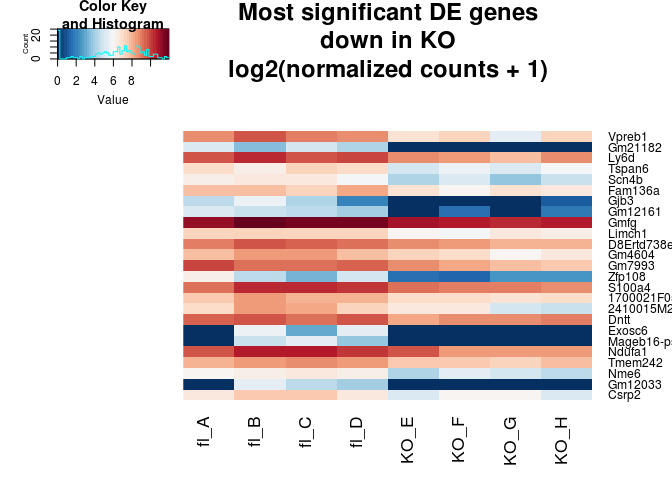
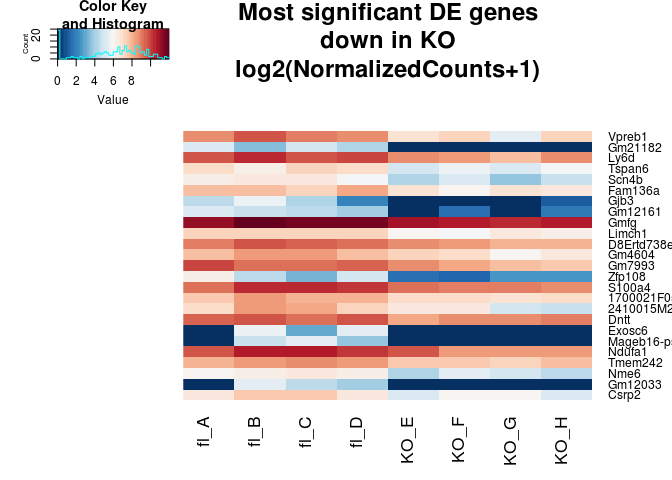
FCs

Changed region(s): [[0.3438, 0.125, 0.8125, 0.1875]]

diff --git a/BoneNotebook.md b/BoneNotebook.md
@@ -917,20 +917,32 @@ res <- resCandice[!is.na(resCandice$padj),]
 res <- res[res$log2FoldChange<0,]
 
 
-std.heatmap(log(boneMatNorm[rownames(res[order(res$pvalue,decreasing = F),])[1:25],]+1,2),main="Most significant DE genes\ndown in KO\nlog2(normalized counts + 1)")
+std.heatmap(log(boneMatNorm[rownames(res[order(res$pvalue,decreasing = F),])[1:25],]+1,2),main="Most significant DE genes\ndown in KO\nlog2(NormalizedCounts+1)")
 ```
 
 ![](BoneNotebook_files/figure-markdown_github/differentialExpression-1.png)
+
+``` r
+std.heatmap(log(boneMatNorm[rownames(res[order(res$pvalue,decreasing = F),])[1:25],]+1,2)-rowMeans(log(boneMatNorm[rownames(res[order(res$pvalue,decreasing = F),])[1:25],]+1,2)),main="Most significant DE genes\ndown in KO\nlog2(FC)")
+```
+
+![](BoneNotebook_files/figure-markdown_github/differentialExpression-2.png)
 
 ``` r
 res <-  results(DESeqOutput)
 res <- res[!is.na(res$padj),]
 boneUpDown <- list(rownames(res[res$padj<.1&res$log2FoldChange>0,]),rownames(res[res$padj<.1&res$log2FoldChange<0,]))
 res <- res[res$log2FoldChange>0,]
+std.heatmap(log(boneMatNorm[rownames(res[order(res$pvalue,decreasing = F),])[1:25],]+1,2)-rowMeans(log(boneMatNorm[rownames(res[order(res$pvalue,decreasing = F),])[1:25],]+1,2)),main="Most significant DE genes\nup in KO\nlog2(FC)")
+```
+
+![](BoneNotebook_files/figure-markdown_github/differentialExpression-3.png)
+
+``` r
 std.heatmap(log(boneMatNorm[rownames(res[order(res$pvalue,decreasing = F),])[1:25],]+1,2),main="Most significant DE genes\nup in KO\nlog2(normalized counts + 1)")
 ```
 
-![](BoneNotebook_files/figure-markdown_github/differentialExpression-2.png)
+![](BoneNotebook_files/figure-markdown_github/differentialExpression-4.png)
 
 ``` r
 res <-  results(DESeqOutput)
@@ -940,58 +952,58 @@ res <- res[!is.na(res$padj),]
 hist(res$log2FoldChange,main = "Log2 Fold Changes Detected")
 ```
 
-![](BoneNotebook_files/figure-markdown_github/differentialExpression-3.png)
+![](BoneNotebook_files/figure-markdown_github/differentialExpression-5.png)
 
 ``` r
 plot(res$log2FoldChange,-log(res$padj),ylab="-logPadj",xlab="logFC",main="Volcano Plot")
 ```
 
-![](BoneNotebook_files/figure-markdown_github/differentialExpression-4.png)
+![](BoneNotebook_files/figure-markdown_github/differentialExpression-6.png)
 
 ``` r
 #ESR1 not differentially expressed
 barplot((boneMatNorm["Esr1",]),main="Esr1")
 ```
 
-![](BoneNotebook_files/figure-markdown_github/differentialExpression-5.png)
+![](BoneNotebook_files/figure-markdown_github/differentialExpression-7.png)
 
 ``` r
 barplot((boneMatNorm["Gper1",]),main="Gper1")
 ```
 
-![](BoneNotebook_files/figure-markdown_github/differentialExpression-6.png)
+![](BoneNotebook_files/figure-markdown_github/differentialExpression-8.png)
 
 ``` r
 #Just a sanity Check
 barplot(boneMatNorm["Ncoa1",],las=2,main="Ncoa1")
 ```
 
-![](BoneNotebook_files/figure-markdown_github/differentialExpression-7.png)
+![](BoneNotebook_files/figure-markdown_github/differentialExpression-9.png)
 
 ``` r
 barplot(boneMatNorm["Ncoa2",],las=2,main="Ncoa2")
 ```
 
-![](BoneNotebook_files/figure-markdown_github/differentialExpression-8.png)
+![](BoneNotebook_files/figure-markdown_github/differentialExpression-10.png)
 
 ``` r
 barplot(boneMatNorm["Ncoa3",],las=2,main="Ncoa3")
 ```
 
-![](BoneNotebook_files/figure-markdown_github/differentialExpression-9.png)
+![](BoneNotebook_files/figure-markdown_github/differentialExpression-11.png)
 
 ``` r
 barplot((boneMatNorm["Kiss1",]),main="Kiss1")
 ```
 
-![](BoneNotebook_files/figure-markdown_github/differentialExpression-10.png)
+![](BoneNotebook_files/figure-markdown_github/differentialExpression-12.png)
 
 ``` r
 #also a sanity check
 std.heatmap(cor(ambrosiMatNorm,method = "spearman"))
 ```
 
-![](BoneNotebook_files/figure-markdown_github/differentialExpression-11.png)
+![](BoneNotebook_files/figure-markdown_github/differentialExpression-13.png)
 
 ``` r
 eG <- enrichGO(rownames(res[res$padj<.1,]),OrgDb ='org.Mm.eg.db',keyType = "SYMBOL",ont = "BP")
@@ -1156,44 +1168,43 @@ print(dfGO[1:30,])
     ## GO:0043900    12
 
 ``` r
-ifnGenes <- Reduce(union,strsplit(dfGO[which(grepl(pattern = "defense|interferon",dfGO[,2])),"geneID"],"/"))
+ifnGenes <- Reduce(union,strsplit(dfGO[which(grepl(pattern = "defense|interferon|immune",dfGO[,2])),"geneID"],"/"))
 repairGenes <- Reduce(union,strsplit(dfGO[which(grepl(pattern = "pyrimidine|repair",dfGO[,2])),"geneID"],"/"))
-bmpGenes <- Reduce(union,strsplit(dfGO[which(grepl(pattern = "ossi|osteoblast|collagen",dfGO[,2])),"geneID"],"/"))
-
+bmpGenes <- Reduce(union,strsplit(dfGO[which(grepl(pattern = "ossi|osteoblast|collagen|muscle",dfGO[,2])),"geneID"],"/"))
 std.heatmap(log(boneMatNorm[ifnGenes,]+1,2)-rowMeans(log(boneMatNorm[ifnGenes,]+1,2)),main="IFN response\nLog2(FC) from mean")
-```
-
-![](BoneNotebook_files/figure-markdown_github/differentialExpression-12.png)
-
-``` r
-std.heatmap(log(boneMatNorm[repairGenes,]+1,2)-rowMeans(log(boneMatNorm[repairGenes,]+1,2)),main="DNA synth/repair\nLog2(FC) from mean")
-```
-
-![](BoneNotebook_files/figure-markdown_github/differentialExpression-13.png)
-
-``` r
-std.heatmap(log(boneMatNorm[bmpGenes,]+1,2)-rowMeans(log(boneMatNorm[bmpGenes,]+1,2)),main="BMP Related\nLog2(FC) from mean")
 ```
 
 ![](BoneNotebook_files/figure-markdown_github/differentialExpression-14.png)
 
 ``` r
-std.heatmap(log(boneMatNorm[ifnGenes,]+1,2),main="IFN response\nLog2(normalized counts+1)")
+std.heatmap(log(boneMatNorm[repairGenes,]+1,2)-rowMeans(log(boneMatNorm[repairGenes,]+1,2)),main="DNA synth/repair\nLog2(FC) from mean")
 ```
 
 ![](BoneNotebook_files/figure-markdown_github/differentialExpression-15.png)
 
 ``` r
-std.heatmap(log(boneMatNorm[repairGenes,]+1,2),main="DNA synth/repair\nLog2(normalized counts+1)")
+std.heatmap(log(boneMatNorm[bmpGenes,]+1,2)-rowMeans(log(boneMatNorm[bmpGenes,]+1,2)),main="BMP Related\nLog2(FC) from mean")
 ```
 
 ![](BoneNotebook_files/figure-markdown_github/differentialExpression-16.png)
 
 ``` r
-std.heatmap(log(boneMatNorm[bmpGenes,]+1,2),main="BMP Related\nLog2(normalized counts+1)")
+std.heatmap(log(boneMatNorm[ifnGenes,]+1,2),main="IFN response\nLog2(normalized counts+1)")
 ```
 
 ![](BoneNotebook_files/figure-markdown_github/differentialExpression-17.png)
+
+``` r
+std.heatmap(log(boneMatNorm[repairGenes,]+1,2),main="DNA synth/repair\nLog2(normalized counts+1)")
+```
+
+![](BoneNotebook_files/figure-markdown_github/differentialExpression-18.png)
+
+``` r
+std.heatmap(log(boneMatNorm[bmpGenes,]+1,2),main="BMP Related\nLog2(normalized counts+1)")
+```
+
+![](BoneNotebook_files/figure-markdown_github/differentialExpression-19.png)
 
 #### Candice DE in the Ambrosi
 
@@ -1551,6 +1562,8 @@ print(descriptions[dereceptors,])
 ``` r
 eacivector <- resCandiceSub$log2FoldChange
 names(eacivector) <- rownames(resCandiceSub)
+
+
 boneEACI <- eacitest(eacivector,"org.Mm.eg","SYMBOL",sets = "GO")
 ```
 
@@ -1560,16 +1573,16 @@ boneEACI <- eacitest(eacivector,"org.Mm.eg","SYMBOL",sets = "GO")
 
     ## Converting annotations to data.frames ...
 
-    ## iteration 1 done; time  0.14 sec 
-    ## iteration 2 done; time  0.12 sec 
-    ## iteration 3 done; time  0.11 sec 
-    ## iteration 4 done; time  0.13 sec 
-    ## iteration 5 done; time  0.23 sec 
-    ## iteration 6 done; time  0.13 sec 
+    ## iteration 1 done; time  0.13 sec 
+    ## iteration 2 done; time  0.11 sec 
+    ## iteration 3 done; time  0.12 sec 
+    ## iteration 4 done; time  0.12 sec 
+    ## iteration 5 done; time  0.22 sec 
+    ## iteration 6 done; time  0.12 sec 
     ## iteration 7 done; time  0.13 sec 
     ## iteration 8 done; time  0.22 sec 
     ## iteration 9 done; time  0.14 sec 
-    ## iteration 10 done; time  0.16 sec
+    ## iteration 10 done; time  0.13 sec
 
     ## Labeling output ...
 
